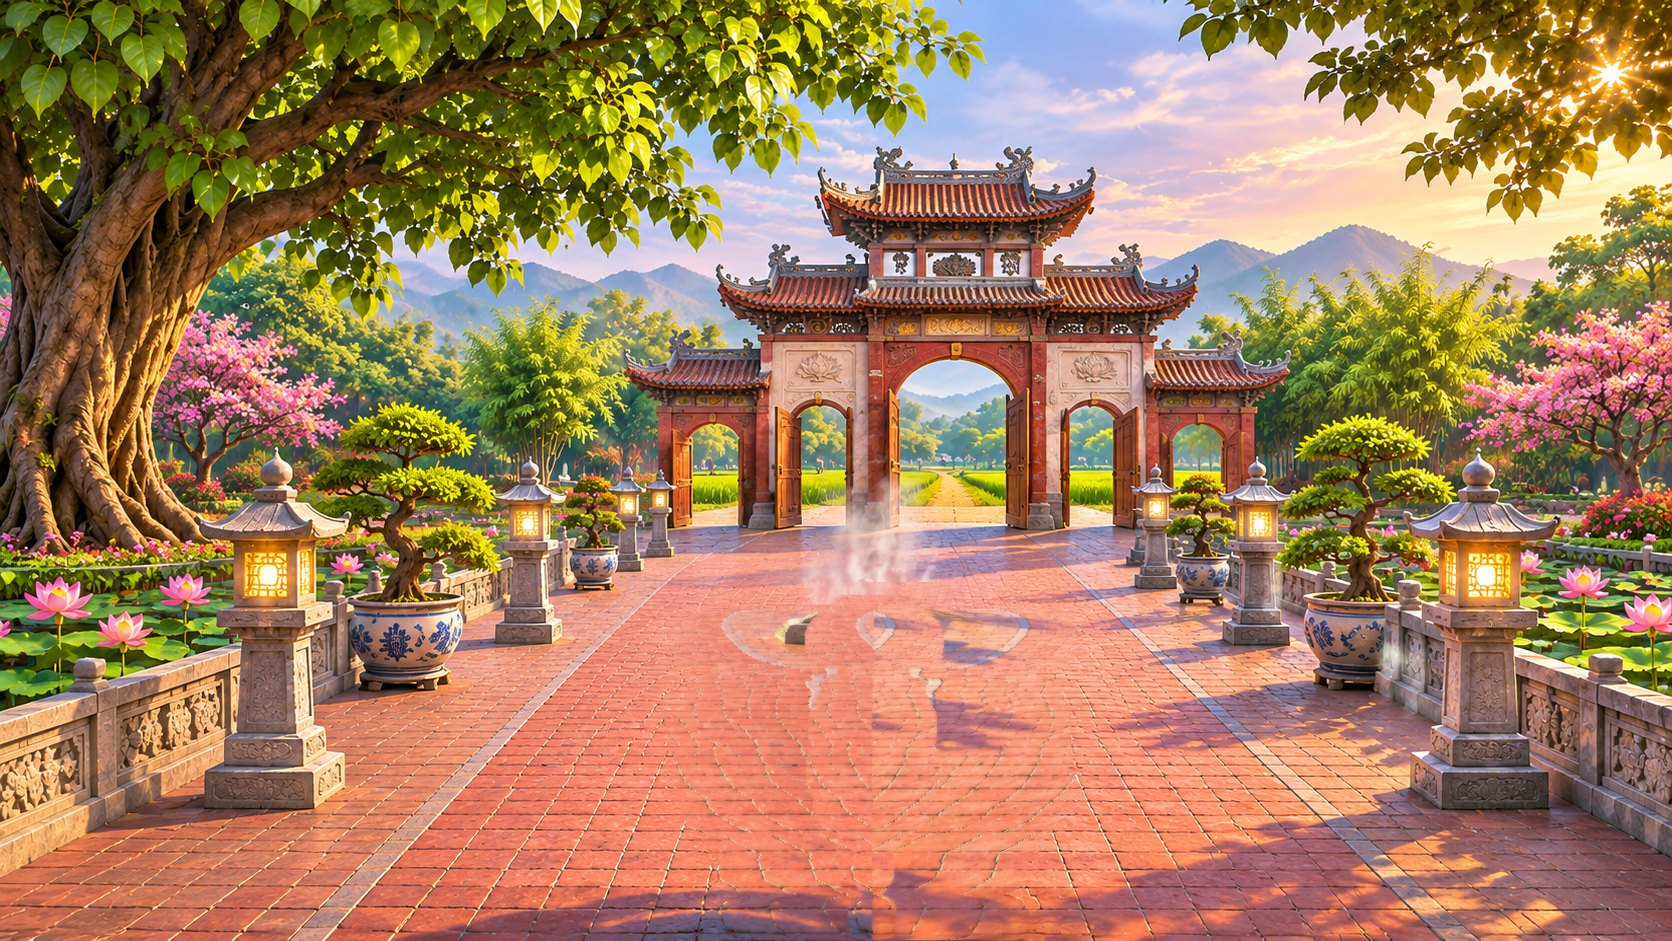
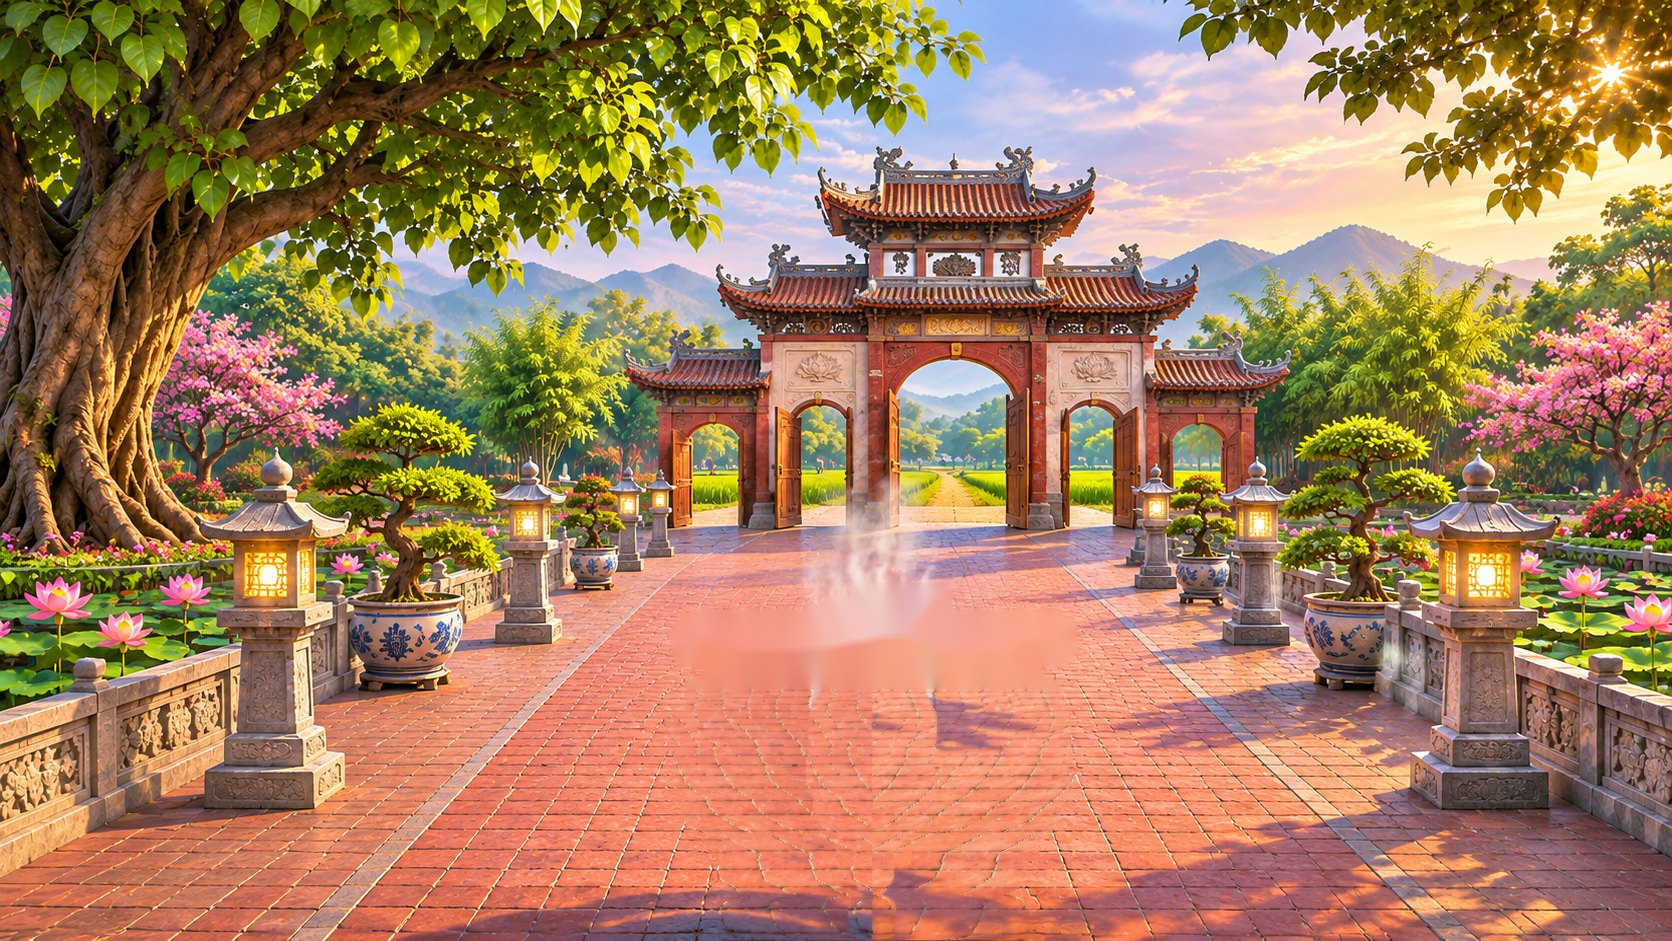
Nền có chiều sâu cho chánh điện và 11 cảnh sân
- Bản đồ độ sâu (Depth Anything V2) cho từng ảnh; WebGL dịch từng điểm ảnh theo độ sâu
- Máy quay khẽ theo Bạn, con trỏ chuột và nhịp thở: cảnh gần trượt nhiều, cảnh xa trượt ít
- Người, thảm, lư hương 3D, thẻ tên dịch cùng nền theo độ sâu tại chân
- Vá lại nền chỗ lư hương vẽ sẵn cho sạch hơn

Claude-Session: https://claude.ai/code/session_0165dYwuGLCeQUJKj4YibH94

Changed region(s): [[0.4354, 0.6164, 0.6531, 0.7396], [0.5287, 0.7088, 0.5598, 0.7396]]

diff --git a/chua.js b/chua.js
@@ -151,8 +151,55 @@
     load('assets/song/monk.png').then(i => monk = i), load(ROOMS.hall.img).then(i => imgs.hall = i), load(ROOMS.hall.fg).then(i => imgs.hallFg = i)
   ]).then(() => { ready = true; document.documentElement.classList.add('song-ready'); syncVirtual();
     Object.keys(ROOMS).forEach(k => k !== 'hall' && load(ROOMS[k].img).then(i => imgs[k] = i)); });
+  Object.keys(ROOMS).forEach(loadDepth);
 
   /* ---------- Vẽ ---------- */
+  /* ---------- Nền có chiều sâu (bản đồ độ sâu + WebGL) ----------
+     Mỗi điểm ảnh dịch đi off·(độ sâu − focus): gần dịch nhiều, xa dịch ít → cảm giác nhìn bằng mắt thật.
+     Người, thảm, lư hương dịch theo độ sâu tại chân để luôn đứng đúng chỗ trên nền. */
+  const depth = {};                                                       // room → {img, data}
+  function loadDepth(k) {
+    return load(`assets/sau/${k}.png`).then(i => {
+      if (!i) return; const c = document.createElement('canvas'); c.width = i.width; c.height = i.height;
+      const g = c.getContext('2d'); g.drawImage(i, 0, 0); depth[k] = { img: i, w: i.width, h: i.height, data: g.getImageData(0, 0, i.width, i.height).data, tex: null };
+    });
+  }
+  const dAt = (k, x, y) => { const d = depth[k]; if (!d) return 0; const ix = Math.max(0, Math.min(d.w - 1, x * d.w / W | 0)), iy = Math.max(0, Math.min(d.h - 1, y * d.h / H | 0)); return d.data[(iy * d.w + ix) * 4] / 255; };
+  const PX = (() => {
+    const c = document.createElement('canvas'); c.width = W; c.height = H;
+    const gl = c.getContext('webgl', { premultipliedAlpha: false, preserveDrawingBuffer: true });
+    if (!gl) return null;
+    const sh = (type, src) => { const s = gl.createShader(type); gl.shaderSource(s, src); gl.compileShader(s); return s; };
+    const prog = gl.createProgram();
+    gl.attachShader(prog, sh(gl.VERTEX_SHADER, 'attribute vec2 a;varying vec2 v;void main(){v=vec2(a.x*.5+.5,.5-a.y*.5);gl_Position=vec4(a,0.,1.);}'));
+    gl.attachShader(prog, sh(gl.FRAGMENT_SHADER, `precision highp float;varying vec2 v;uniform sampler2D img,dep;uniform vec2 off;uniform float focus;
+      void main(){vec2 q=v;for(int i=0;i<5;i++){float d=texture2D(dep,q).r;q=v-off*(d-focus);}
+      gl_FragColor=texture2D(img,clamp(q,vec2(.001),vec2(.999)));}`));
+    gl.linkProgram(prog); if (!gl.getProgramParameter(prog, gl.LINK_STATUS)) return null;
+    gl.useProgram(prog);
+    const buf = gl.createBuffer(); gl.bindBuffer(gl.ARRAY_BUFFER, buf); gl.bufferData(gl.ARRAY_BUFFER, new Float32Array([-1, -1, 1, -1, -1, 1, 1, 1]), gl.STATIC_DRAW);
+    const loc = gl.getAttribLocation(prog, 'a'); gl.enableVertexAttribArray(loc); gl.vertexAttribPointer(loc, 2, gl.FLOAT, false, 0, 0);
+    const U = n => gl.getUniformLocation(prog, n);
+    gl.uniform1i(U('img'), 0); gl.uniform1i(U('dep'), 1);
+    const texOf = (im) => { const tx = gl.createTexture(); gl.bindTexture(gl.TEXTURE_2D, tx);
+      [gl.TEXTURE_WRAP_S, gl.TEXTURE_WRAP_T].forEach(k => gl.texParameteri(gl.TEXTURE_2D, k, gl.CLAMP_TO_EDGE));
+      gl.texParameteri(gl.TEXTURE_2D, gl.TEXTURE_MIN_FILTER, gl.LINEAR); gl.texParameteri(gl.TEXTURE_2D, gl.TEXTURE_MAG_FILTER, gl.LINEAR);
+      gl.texImage2D(gl.TEXTURE_2D, 0, gl.RGB, gl.RGB, gl.UNSIGNED_BYTE, im); return tx; };
+    const cache = new Map();
+    return { canvas: c, draw(im, dk, ox, oy, focus) {
+      if (!cache.has(im)) cache.set(im, texOf(im));
+      if (!dk.tex) dk.tex = texOf(dk.img);
+      gl.activeTexture(gl.TEXTURE0); gl.bindTexture(gl.TEXTURE_2D, cache.get(im));
+      gl.activeTexture(gl.TEXTURE1); gl.bindTexture(gl.TEXTURE_2D, dk.tex);
+      gl.uniform2f(U('off'), ox / W, oy / H); gl.uniform1f(U('focus'), focus);
+      gl.viewport(0, 0, W, H); gl.drawArrays(gl.TRIANGLE_STRIP, 0, 4); return c;
+    } };
+  })();
+  const cam3 = { x: 0, y: 0 }, FOCUS = .35;
+  let pointer = { x: .5, y: .5 };
+  addEventListener('pointermove', e => { pointer = { x: e.clientX / innerWidth, y: e.clientY / innerHeight }; });
+  const shiftAt = (x, y) => { const d = dAt(room, x, y) - FOCUS; return [cam3.x * d, cam3.y * d]; };
+
   let room = 'hall';
   const R = () => ROOMS[room];
   const hAt = (y, rm = R()) => Math.max(26, rm.k * (y - rm.hz));
@@ -179,7 +226,7 @@
     ctx.restore();
     if (p.holding) drawHeldSticks(p, h);
     const el = tagFor(p);
-    if (el) { const top = p.fy - h * (f === F.prostrate ? .45 : f >= 18 ? .9 : 1.02); el.style.left = p.fx.toFixed(1) + 'px'; el.style.top = (top - 10).toFixed(1) + 'px'; }
+    if (el) { const top = p.fy - h * (f === F.prostrate ? .45 : f >= 18 ? .9 : 1.02); const [dx, dy] = shiftAt(p.fx, p.fy); el.style.left = (p.fx + dx).toFixed(1) + 'px'; el.style.top = (top - 10 + dy).toFixed(1) + 'px'; }
   }
   // Hương: que đỏ, đầu đỏ lửa, khói mỏng
   const sticks = [], flying = [];
@@ -393,18 +440,25 @@
       }
       // vẽ
       const bg = room === 'hall' ? imgs.hall : imgs[room];
-      if (bg) ctx.drawImage(bg, 0, 0); else { ctx.fillStyle = '#2a1408'; ctx.fillRect(0, 0, W, H); }
+      // máy quay khẽ theo Bạn + con trỏ + nhịp thở → nền dịch theo chiều sâu
+      const tx = -(me.fx - 836) / 836 * 22 - (pointer.x - .5) * 16 + Math.sin(t * .31) * 4;
+      const ty = -(me.fy - 760) / 300 * 6 - (pointer.y - .5) * 8 + Math.cos(t * .23) * 2.5;
+      cam3.x += (tx - cam3.x) * Math.min(1, dt * 2.5); cam3.y += (ty - cam3.y) * Math.min(1, dt * 2.5);
+      const dk = depth[room];
+      if (bg && PX && dk) ctx.drawImage(PX.draw(bg, dk, cam3.x, cam3.y, FOCUS), 0, 0);
+      else if (bg) ctx.drawImage(bg, 0, 0); else { ctx.fillStyle = '#2a1408'; ctx.fillRect(0, 0, W, H); }
       const vis = people.filter(p => p.room === room);
-      const items = vis.map(p => ({ y: p.fy, draw: () => drawPerson(p) }));
+      const at = (x, y, fn) => () => { const [dx, dy] = shiftAt(x, y); ctx.save(); ctx.translate(dx, dy); fn(); ctx.restore(); };
+      const items = vis.map(p => ({ y: p.fy, draw: at(p.fx, p.fy, () => drawPerson(p)) }));
       if (room === 'hall') {
-        SEATS.forEach(s => items.push({ y: s.y - .5, draw: () => drawCushion(s.x, s.y, hallH(s.y)) }));
-        if (monk) items.push({ y: 802, draw: () => { const b = 1 + Math.sin(t * 1.2) * .006; ctx.drawImage(monk, 198, 693 + 106 * (1 - b), 75, 106 * b); } });
+        SEATS.forEach(s => items.push({ y: s.y - .5, draw: at(s.x, s.y, () => drawCushion(s.x, s.y, hallH(s.y))) }));
+        if (monk) items.push({ y: 802, draw: at(235, 802, () => { const b = 1 + Math.sin(t * 1.2) * .006; ctx.drawImage(monk, 198, 693 + 106 * (1 - b), 75, 106 * b); }) });
       }
       const u3 = R().urn3d;
-      if (u3 && window.Urn3D && Urn3D.ok()) items.push({ y: u3.bb[3], draw: () => Urn3D.draw(ctx, u3, t) });
+      if (u3 && window.Urn3D && Urn3D.ok()) items.push({ y: u3.bb[3], draw: at((u3.bb[0] + u3.bb[2]) / 2, u3.bb[3] - 4, () => Urn3D.draw(ctx, u3, t)) });
       items.sort((a, b) => a.y - b.y).forEach(i => i.draw());
-      if (room === 'hall' && imgs.hallFg) ctx.drawImage(imgs.hallFg, 0, ROOMS.hall.fgY);
-      sticks.forEach(s => { if (s.room !== room) return; const age = (now - s.t0) / 1000, a = age > 80 ? Math.max(0, 1 - (age - 80) / 10) : 1; if (a > 0) stick(s.x, s.y, s.len * (1 - Math.min(.5, age / 200)), t, a); });
+      if (room === 'hall' && imgs.hallFg) { const [dx, dy] = shiftAt(843, 870); ctx.drawImage(imgs.hallFg, dx, ROOMS.hall.fgY + dy); }
+      sticks.forEach(s => { if (s.room !== room) return; const age = (now - s.t0) / 1000, a = age > 80 ? Math.max(0, 1 - (age - 80) / 10) : 1; if (a > 0) { const [dx, dy] = shiftAt(s.x, s.y + 40); stick(s.x + dx, s.y + dy, s.len * (1 - Math.min(.5, age / 200)), t, a); } });
       for (let i = flying.length - 1; i >= 0; i--) {
         const f = flying[i], k = (now - f.t0) / 600; if (k >= 1) { flying.splice(i, 1); continue; }
         if (f.room !== room) continue;
